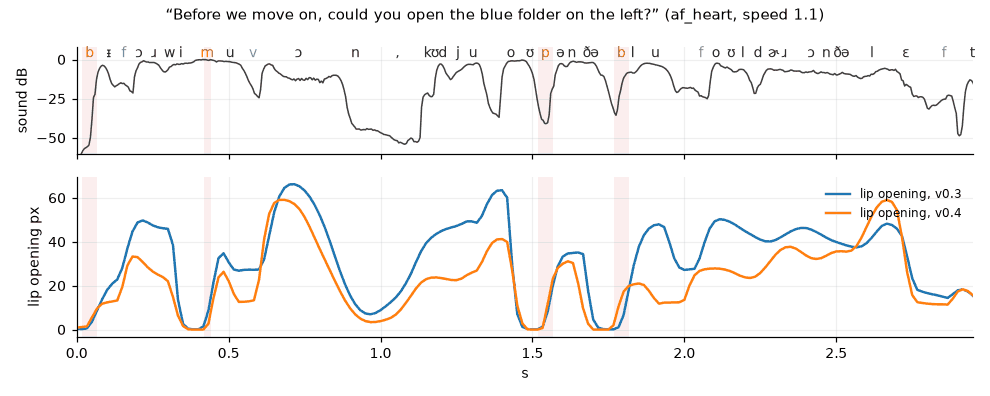
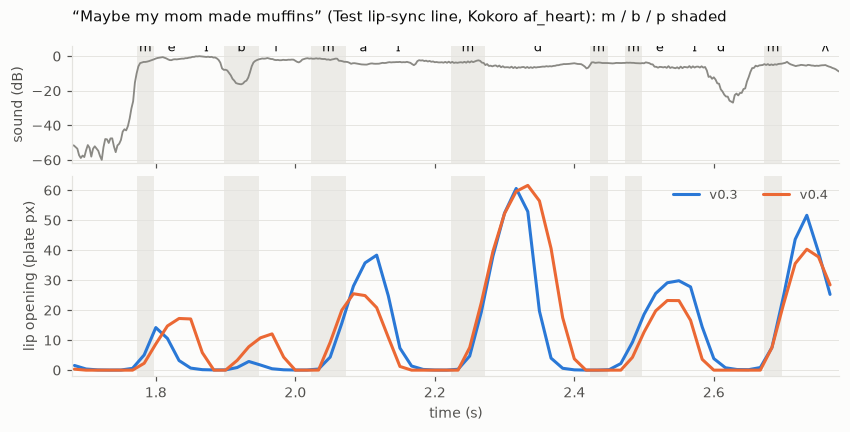
Docs: release timing by context, the jaw behind a seal, round orifices, f / v crowns
README: the lips part where the m / b / p are heard also after a consonant, short
vowels between closures part them, oo / o make a small round opening, the head
never nods twice within about a second. VOICE.md 2.3: the 0.8-5 kHz band, every
release anchored, the phrase-initial burst / hum / hiss, the leads; timing on the
review's 39 clips. RENDERER.md: the landmarks and warp, the nasal-pole rule, the
nod refractory, a new timing table (v0.3 / 689ec7c / now: releases after a vowel and
after a consonant, seals, opening after a pause, vowels that barely open), the
kinematics and the f / v and rounding rendering; the plot is now the Test lip-sync
line, v0.3 vs v0.4. tools/visual/README: the release and short-vowel measures.

Claude-Session: https://claude.ai/code/session_01PYS5SFJYkxWXZ5M9LNxvi9

diff --git a/docs/RENDERER.md b/docs/RENDERER.md
@@ -67,12 +67,15 @@ the lips own m/b/p (press) and f/v (tuck), the jaw owns the vowels, rounding spr
 into the consonants before an O / U (unless a spread vowel is in between), an h or a schwa takes
 its neighbours' shape, and a closure is dominant enough that a 50 ms "m" still closes (press ≥ 0.8,
 jaw ≤ 0.12: the lips do most of the closing, the jaw stays partly open between open vowels as it
-does in speech). A closure passed between two frames is shown, and the director closes the jaw
-fast into it, so it also closes on screen at 30 fps.
+does in speech; the director holds it at `JAW_BEHIND_SEAL` (0.4) while the lips close or are sealed
+for a sound and lets it open for the next vowel as they part). A closure passed between two frames
+is shown, and the director closes the jaw fast into it, so it also closes on screen at 30 fps. A
+vowel between two closures shorter than 140 ms (`SHORT_VOWEL`: "Maybe my", "Bobby") narrows the two
+lip gestures facing it and the second one's early approach, so the lips part for it.
 
 | Source | Mouth |
 |---|---|
-| local voice (Kokoro) | the server's viseme timeline, re-timed on the clip's own sound and given per-vowel amounts from its formants (below), at the playback clock (smoothed, see [Motion](#motion)) + 40 ms visual lead for the lips, 60 ms for the jaw (58 ms for both until the analysis is back), and the clip's own audio (the player's decoded buffer, or its WAV): the loudness envelope opens the jaw, sampled a moment ahead so a syllable's onset opens it as sharply as the sound starts; each vowel's jaw is scaled by its measured loudness and length (stressed syllables wider, reduced ones less); every sound varies a little (jaw ±8 %, spread, rounding), so repeated syllables are never identical; a phrase-final sound rests where the voice really stops (Kokoro holds a final "d" ~200 ms into the pause) |
+| local voice (Kokoro) | the server's viseme timeline, re-timed on the clip's own sound and given per-vowel amounts from its formants (below), at the playback clock (smoothed, see [Motion](#motion)) + 26 ms visual lead for the lips where a closure's edge is an acoustic landmark (up to 58 ms where it is the timeline's own), 60 ms for the jaw (58 ms for both until the analysis is back; a rebuild while the clip plays crossfades over 80 ms), and the clip's own audio (the player's decoded buffer, or its WAV): the loudness envelope opens the jaw, sampled a moment ahead so a syllable's onset opens it as sharply as the sound starts; each vowel's jaw is scaled by its measured loudness and length (stressed syllables wider, reduced ones less); every sound varies a little (jaw ±8 %, spread, rounding), so repeated syllables are never identical; a phrase-final sound rests where the voice really stops (Kokoro holds a final "d" ~200 ms into the pause) |
 | system voice (Web Speech) | the utterance's words → phonemes (`g2p.js`: a ~500-word exception dictionary incl. "Claude", NRL letter-to-sound rules, stress, numbers, acronyms) → a timed plan (stressed vowels long, closures ≥ 50 ms, phrase-final lengthening, rests at punctuation that ends a word; a mark inside a token — `package.json`, `github.com`, `10:30` — is read straight through, with a spoken "dot" between letters). Word-boundary events (`charIndex`) anchor each word; between them the plan runs at a speed learned from the boundaries (per utterance rate); an early boundary compresses the rest of the word, a late one holds the word's last sound (or waits at rest in a pause). Voices without boundary events play the whole plan from `onstart`, and the next utterance uses the tempo the last one turned out to have. A voice that has not reported its start after 0.6 s is assumed to have started; when its real `onstart` (or first boundary) comes later, the mouth re-anchors there instead of leading the voice, and no tempo is learned from the guess. |
 | audio without visemes | RMS → jaw (noise gate), band ratios → spread / round, quiet hiss → teeth |
 
@@ -95,17 +98,21 @@ the controller starts it when the speech queue has synthesised a clip, before it
 
 | Step | What it does |
 |---|---|
-| landmarks | phrase onsets (the first frame within 22 dB of the phrase's peak); closures (m b p) and tucks (f v) between two vowels: the level dip below half its depth, only a true local minimum overlapping the segment (not the next consonant of a cluster) |
-| time warp | a monotonic piecewise-linear warp of the timeline onto them (slopes 0.4-2.5, at most 90 ms), so the segments stay contiguous; anchored closures are marked `exact` and get crisper lip edges |
-| amounts | per vowel: jaw from F1 (normalised to the voice's own range: the 12th-88th percentile of its vowels heard so far, from a prior by pitch), bounded per category (`JAW_RANGE`: U 0.04-0.3 … aa 0.3-0.95); spread from F2 (front vowels); stress from loudness and length (×0.62-1.18; reduced front vowels lose spread and teeth); rounded vowels 82-100 % rounded |
+| landmarks | phrase onsets (the first frame within 22 dB of the phrase's peak; a phrase-initial p at its burst, an m where its hum gives way to the vowel's upper formants); every m / b / p before a vowel ends at its release, whatever precedes it ("and Pam", "it back"): where the 0.8-5 kHz band rises out of the closure (the steepest rise, or the half-way point of a gradual one), and starts, after a vowel, where that band falls into it (`bandClosure`); before a consonant only the start; tucks (f v) between two vowels: the low band's dip. The neighbouring vowels keep part of their length ("probably") |
+| time warp | a monotonic piecewise-linear warp of the timeline onto them (slopes 0.4-2.5, at most 90 ms; the two edges of one closure 0.2-6x), so the segments stay contiguous; an anchored edge is marked `exactStart` / `exactEnd` and gets a crisper lip edge and the lips' fused lead |
+| amounts | per vowel: jaw from F1 (normalised to the voice's own range: the 12th-88th percentile of its vowels heard so far, from a prior by pitch), bounded per category (`JAW_RANGE`: U 0.04-0.3 … aa 0.3-0.95; an open vowel whose F1 reads as low as a close one's is a nasal pole, the ae of "Pam" before its m, and keeps its own opening); spread from F2 (front vowels); stress from loudness and length (×0.62-1.18; reduced front vowels lose spread and teeth); rounded vowels 82-100 % rounded |
 
 Result on 36 real clips (af_heart, am_michael, bf_emma × six sentences × speeds 0.9 / 1.1), the
 relief head's aperture at the centre of each vowel: r(aperture, F1) 0.34 → 0.66; open vs close
 vowels 1.39x → 1.72x; stressed vs unstressed 1.45x → 1.61x. Before, the rounded vowels opened the
 most (ɔ / o 58-61 px, ahead of the open vowels' 50 px); now ɑ 52, æ 45, ɔ / o 40, ɪ / i 24-26,
-ʊ / u 21-24 px.
+ʊ / u 21-24 px. On the 39 clips of the v0.4 review (each vowel's peak, the review's own LPC F1):
+r(aperture, F1) 0.45 → 0.60 (689ec7c 0.62), open vs close vowels 1.67x → 1.87x (2.01x), stressed vs
+unstressed 1.43x → 1.54x (1.58x); a rounded vowel's orifice is now narrower than the corners, so a
+stressed oo / o reads round (width / height 4.5 / 2.9 on the rig, 689ec7c 7.0 / 4.2) instead of a
+flat slit.
 
-![The relief head's lip opening over "Before we move on, could you open the blue folder on the left?" (Kokoro af_heart, speed 1.1), v0.3 vs v0.4, under the clip's loudness and phonemes: the close vowels (w-i, could you, blue) no longer open like the open ones, and the closures (shaded) are approached instead of snapped](screenshots/lipsync_opening.png)
+![The relief head's lip opening over "Maybe my mom made muffins" (the Test lip-sync line, Kokoro af_heart), v0.3 vs v0.4, under the clip's loudness and phonemes (m / b / p shaded): the /i/ of "Maybe" between its b and the m of "my" parts the lips (v0.3: 3 px), each m seals where its murmur is and parts where the vowel comes in, and "mom" stays open until its final m](screenshots/lipsync_opening.png)
 
 ![The same clip on the relief head, v0.3 (top) vs v0.4 (bottom): m, oo, o, oo, f, e](screenshots/lipsync_shapes.jpg)
 
@@ -123,7 +130,7 @@ text's for these clips:
 |---|---|---|
 | `inhale` | the silence before the first phrase and pauses ≥ 0.22 s, sized to the time left | nostrils flare, free lips part a little, the head and chest lift; breathing while speaking follows the pauses |
 | `phrase-start` | each run of speech between rests ≥ 100 ms | a small lift; some phrases start with a glance away |
-| `accent` | vowels whose pitch peak (re the speaker's usual pitch), rise, loudness and length beat the vowels within 0.3 s | a phrase's strongest (nuclear) accent nods; weaker ones nod with a probability that grows with their strength, otherwise give a small turn / tilt beat, a brow flick, or nothing; nod sizes vary log-normally (±30 %), so the head never bobs once per stressed word |
+| `accent` | vowels whose pitch peak (re the speaker's usual pitch), rise, loudness and length beat the vowels within 0.3 s | a strong (nuclear) accent nods, a weaker one with a probability that grows with its strength (0.15 + 0.35 x), but no accent nods within 0.6-1.2 s (`NOD_REFRACTORY`, drawn) of the last nod; otherwise a turn / tilt beat, a brow flick, or nothing; nod sizes vary log-normally (±30 %), so the head never bobs once per stressed word (0.66 nods/s on 39 clips; v0.3 1.41) |
 | `emphasis` | an accent ≥ 5 semitones above the usual pitch, rising ≥ 3 | brows lift, a firmer nod |
 | `phrase-end` | where the voice stops, with its final fall / rise (semitones), the pause after it and the text's punctuation | a fall settles the head (final lowering); a question or a rising end lifts the brows and tilts the head; eye contact again; a blink when the pause is real |
 
@@ -154,38 +161,48 @@ still while speaking. The face coupling is anatomy, so it keeps 40 % at 0.
 ![Mouth film strip of "Maybe we should move the meeting to Friday?" (Kokoro af_heart): before (top) and after (bottom)](screenshots/speech_real_voice.jpg)
 
 Timing, measured end to end with `tools/visual/lipsync-align.mjs` (the rendered mouth of LipSync
-+ director + the relief head's rig at 60 Hz vs the audio; negative = the mouth leads), medians:
++ director + the relief head's rig at 60 Hz vs the audio; negative = the mouth leads). A release
+is where the 0.8-5 kHz band rises out of the closure (the tool's own zero-phase band-pass, so it
+does not share the app's analysis); "689ec7c" is v0.4 before its review.
 
-| | v0.2 | v0.3 | v0.4 |
+| | v0.3 | 689ec7c | v0.4 |
 |---|---|---|---|
-| lips sealed (aperture < 1 px) vs the acoustic closure, start: median [IQR], 36 clips | | -32 [-37, -25] ms | -30 [-32, -25] ms |
-| ... end | | -15 [-22, +2] ms | -20 [-22, -15] ms |
-| ... start / end, the 12 clips of v0.3 | | -35 / -20 ms | -35 / -20 ms |
-| fullest m / b / p closure vs the level dip, 12 clips | +12 ms | -33 ms | -38 ms |
-| jaw opening after a pause vs the acoustic onset, 36 clips | | -53 ms | -49 ms |
-| m / b / p sealed (all of them, at Kokoro's phoneme times, 36 clips) | | 78 / 78 | 78 / 78 |
+| lips part vs the release, after a vowel: median [IQR], share > 20 ms late, 39 review clips | -7.5 [-18, +2] ms, 6 % | -8.3 [-18, +9] ms, 17 % | -15.0 [-19, -8] ms, 4 % |
+| ... after a consonant ("and Pam", "it back"), 39 review clips | -0.8 [-13, +12] ms, 18 % | +20.0 [-6, +30] ms, 51 % | -14.2 [-19, -10] ms, 4 % |
+| ... after a consonant, the 36 clips / the 12 clips of v0.3 | -12 / +11 ms (0 / 43 %) | +8 / +23 ms (23 / 57 %) | -16 / -10 ms (0 / 17 %) |
+| lips sealed (aperture < 1 px) vs the level dip, start / end, 36 clips | -32 / -15 ms | -30 / -20 ms | -32 / -18 ms |
+| jaw opening after a pause vs the acoustic onset, 36 clips / the review's 15 at speed 0.9 | -53 / -46 ms | -43 / -63 ms | -38 / -63 ms |
+| vowels of 60 ms or more that open the lips less than 5 px, 39 review clips | 2 / 621 | 3 / 621 | 0 / 621 |
+| m / b / p sealed, 39 review clips (rig, the review's own landmarks) | 248 / 249 | 247 / 249 | 248 / 249 |
 
-(36 clips: af_heart, am_michael, bf_emma, six sentences each, speeds 0.9 and 1.1; the closures the
-tool scores are the m / b / p between vowels with a clear level dip.) The display adds one to two
-frames of its own, so on screen the seal lands within ~15 ms of the sound. The timing barely changed on average (it was right on average in v0.3); its spread did: the
-fused timeline puts each closure on its own sound instead of on a 25 ms timeline frame.
+(39 review clips: af_heart, am_michael, bf_emma; five sentences at speeds 0.9 and 1.1 and three at
+1.0, among them the Test lip-sync line. 36 clips: the same voices, six other sentences at 0.9 and
+1.1. The releases still listed late are mostly a stop before an m, "made muffins": there the
+band's steepest rise is the stop's burst into the m's murmur, not the lips.) The display adds one
+to two frames of its own, so on screen the lips part within ~0-20 ms of the sound.
 *Settings → Voice → Lip-sync timing* (`voice.lipSyncOffsetMs`, ±200 ms) shifts it for audio
 devices with an unreported delay (Bluetooth); **Test lip-sync** says a line of m / b / p to judge it
 by ([VOICE.md](VOICE.md#23-lip-sync-in-the-renderer)).
 
-Kinematics (36 clips, director springs `MOUTH_OMEGA`, `LIP_CONTACT`): the lips approach a closure
-over ~60 ms (the press spring rises at 48 rad/s, starting `LIP_CLOSE_EARLY` = 28 ms sooner than it
-falls) and meet at speed (contact at 80 % of the spring's way), then part abruptly (100 rad/s): the
-largest one-frame change of the relief head's aperture went from 45 px (a wide-open vowel snapping
-shut) to 31 px, its p99 from 18 to 17 px; the aperture's p95 closing / opening speed ratio is
-0.86-0.96 (0.72 before: the mouth opened fast and drifted shut).
+Kinematics (director springs `MOUTH_OMEGA`, `lipContact`): the lips approach a closure over
+40-60 ms (the press spring rises at 48 rad/s from an open jaw, 64 from a nearly closed one, and
+starts `LIP_CLOSE_EARLY` = 16 ms sooner than it falls) and meet at speed (contact at 55-80 % of
+the spring's way, by how far apart they are) while closing for a sound; as soon as the target
+falls (a release, or a short vowel between two closures) they show the spring as it is, so they
+part as they move (70 rad/s). The jaw waits behind them (`JAW_BEHIND_SEAL`) and opens at 45 rad/s.
+On the 39 review clips: the largest one-frame opening of the relief head's aperture 22.5 (v0.3) /
+31.7 (689ec7c) → 20.3 px, the largest closing 47.8 / 32.1 → 30.3 px; the first frame after a seal
+shows 7 % / 17 % → 12 % of the next peak; the per-movement peak speed closing / opening is
+0.87 / 0.73 → 1.04 (the mouth neither pops open nor drifts shut).
 
 ![The fourteen visemes on the relief and the procedural head](screenshots/mouth_visemes.jpg)
 
 ![Film strip of the system-voice lip-sync saying "Hello! I'm Claude. How are you feeling today?"](screenshots/mouth_speech.jpg)
 
 Rendering: the relief head opens the lips as a lens that spans the corners where they are now
-(narrow and round for O / U, wide for E): the commissures take only 40 % of the jaw drop and the
+(wide for E; for O / U narrower still than the corners, `roundLensHw`: protruded lips meet beside
+a small round orifice, an "oo" about half an "ah"'s width, 0.56 vs 0.92 of the mouth half width
+on the review clips, an "o" 0.59): the commissures take only 40 % of the jaw drop and the
 lower lip's share tapers toward them, so the corners stay closed and the opening's edges are smooth
 curves that close into the seam without a kink over the last quarter of the way (no sharp dark tips
 beside an O); the parted lips' inner edges roll into the mouth (a soft shadow, a thin moist highlight) and
@@ -202,7 +219,9 @@ texture is compressed toward the seam and the rest gap skipped; the shapes' part
 square of the press, so a press that is only half released still holds the lips together), brings a tucked lower lip up under
 the incisors for f / v: the upper lip keeps half of the neighbouring vowel's lift and the opening
 narrows by 20 %, so a narrow band of incisor crowns shows over the lower lip (the cavity shader
-fills it from the mouth texture's incisor rows, found at load, `incisorBand`), not a dark slot;
+draws them from the mouth texture's incisor rows, found at load, `incisorBand`, at their own
+height, `TUCK_CROWN_PX` under the upper lip, and lets them give way to the open mouth's teeth as
+the jaw opens for the next vowel, so they never stretch into tall bars), not a dark slot;
 it raises the upper lip for teeth (the incisors follow),
 draws a dim tongue tip at the teeth, pulls the corners in for round and out for spread, and tilts
 them slightly with `mouthAsym`. The procedural head does the same in its vertex rig and cavity

diff --git a/docs/VOICE.md b/docs/VOICE.md
@@ -261,24 +261,32 @@ closures (`PP`) and tucks (`FF`) stay crisp even when they are only 50 ms long, 
 **The sound decides the timing and the amounts.** The timeline says *which* shape (closed,
 tucked, spread, rounded, open); the clip's own audio says *when* and *how much*. When a clip
 arrives (the speech queue's `ready`, before it plays), a Web Worker (`src/audio/acoustics-worker.js`)
-analyses its WAV every 5 ms (`src/audio/acoustics.js`): loudness, a low band (< 400 Hz: the murmur
+analyses its WAV every 5 ms (`src/audio/acoustics.js`): loudness, a 0.8-5 kHz band (the vowels' upper formants: they go in any closure), a low band (< 400 Hz: the murmur
 of m n), a high band (> 3 kHz: frication), voicing, and the first three formants by LPC (order
 14, autocorrelation + Levinson-Durbin, the roots warm-started from the previous frame). The first
 0.8 s come back at once, the rest ~30 ms later for a 5 s clip; the main thread does nothing heavy.
 `src/audio/fusion.js` then:
 
-* warps the timeline monotonically onto the sound's landmarks: each phrase starts where its sound
-  starts, and an m / b / p or f / v between two vowels sits on its acoustic closure (the level dip
-  below half its depth; a dip that is not a local minimum inside the segment, e.g. the next
-  consonant of a cluster, is not used); boundaries move at most 90 ms;
+* warps the timeline monotonically onto the sound's landmarks. Each phrase starts where its sound
+  starts (a phrase-initial p at its burst, an m where its hum gives way to the vowel). Every
+  m / b / p before a vowel ends where the lips part, whatever comes before it ("and Pam", "it back"):
+  the steepest rise of the 0.8-5 kHz band out of the closure (the burst of a b / p, the end of an
+  m's murmur); between two vowels its start sits on the steepest fall into it, and before a
+  consonant only its start. An f / v between vowels sits on the low band's dip. A boundary moves at
+  most 90 ms; the two edges of one closure may stretch it (Kokoro gives an m 25 ms whose closure
+  lasts 70);
 * gives every vowel its own amounts: the jaw from its F1 (open vowels 2-3x a close one), normalised
   per voice (the formant range of the vowels heard so far in that voice, starting from a prior by
-  pitch), bounded by the viseme's category (`JAW_RANGE`: a U never opens like an aa); spread from
-  F2 for front vowels; stress from loudness and length (a stressed vowel opens ~1.6x a reduced
-  one; a reduced front vowel is neither spread nor toothy); stressed oo / o fully rounded;
-* samples the lips 40 ms ahead and the heavier jaw 60 ms ahead (`FUSED_LEAD`); the lips start
-  closing 28 ms sooner than they part (`LIP_CLOSE_EARLY`), so a closure is a ~60 ms approach that
-  meets at speed and a release that bursts.
+  pitch), bounded by the viseme's category (`JAW_RANGE`: a U never opens like an aa; an open vowel
+  whose "F1" reads as low as a close one's is a nasal pole, the ae of "Pam", and keeps its own
+  opening); spread from F2 for front vowels; stress from loudness and length (a stressed vowel opens
+  ~1.5x a reduced one; a reduced front vowel is neither spread nor toothy); stressed oo / o fully
+  rounded;
+* samples the lips 26 ms ahead and the heavier jaw 60 ms ahead (`FUSED_LEAD`). A closure edge that
+  is not a landmark keeps the timeline's timing, moved earlier by what Kokoro's lateness the warp
+  has not already taken out (up to the plain 58 ms lead). The lips start closing 16 ms sooner than
+  they part (`LIP_CLOSE_EARLY`; less before a short vowel between two closures, so "Maybe my"
+  parts the lips for its /i/), meet at speed, and the jaw waits behind them until they part.
 
 The loudness envelope still opens the jaw a moment ahead of each syllable, and the pitch drives
 nods, brows, phrase-final lowering and breaths (`src/audio/prosody.js`). A clip that starts before
@@ -286,13 +294,15 @@ its analysis is back plays its first moments from the timeline alone; the system
 and keeps the timeline-only path.
 
 **Timing.** Measured end to end with `tools/visual/lipsync-align.mjs` (LipSync + director +
-the relief head's rig at 60 Hz in Node) on real Kokoro clips (af_heart, am_michael, bf_emma; six
-sentences each at speeds 0.9 and 1.1, and the 12 clips of v0.3): the lips seal 22-35 ms before the
-acoustic closure starts and part 15-20 ms before it ends (all of them seal), the same at 144 Hz and
-with Windows' 10 ms audio clock. The display shows a frame one to two refreshes after it is
-rendered, so on screen the seal lands within ~15 ms of the sound. A mouth slightly early is also
-what people tolerate best (ITU-R BT.1359: sound ahead of the picture is noticed from ~45 ms, sound
-behind it only from ~125 ms).
+the relief head's rig at 60 Hz in Node) on 39 real Kokoro clips of the v0.4 review (af_heart,
+am_michael, bf_emma; five sentences at speeds 0.9 and 1.1 and three at 1.0, the Test lip-sync line
+among them) against the tool's own 0.8-5 kHz landmarks: the lips part 14-15 ms before the release
+(median; IQR [-19, -8] ms), after a vowel and after a consonant alike, and 4 % of the releases are
+more than 20 ms late (v0.3: 6 % after a vowel, 18 % after a consonant; before this review's
+fixes 17 % and 51 %); all of them seal. The display shows a frame one to two refreshes after it is
+rendered, so on screen the release lands within ~0-20 ms of the sound. A mouth slightly early is
+also what people tolerate best (ITU-R BT.1359: sound ahead of the picture is noticed from ~45 ms,
+sound behind it only from ~125 ms).
 
 **Lip-sync timing (offset).** *Settings → Voice → Lip-sync timing* (`voice.lipSyncOffsetMs`,
 -200..+200 ms, default 0) moves the mouth later (+) or earlier (-) for devices whose delay the

diff --git a/README.md b/README.md
@@ -126,7 +126,7 @@ Both share a GPU particle aura (cyan and amber motes, cyan wisps) and bloom, and
 
 **Lip-sync.** The mouth follows the actual words, with either voice. With the local voice it plays the viseme timeline that comes with the audio; with a Windows (system) voice it works the sounds out from the text and keeps them in step with the voice's word timing. The lips close on *m*, *b* and *p*, the lower lip tucks under the teeth on *f* and *v*, the lips round ahead of *o* and *oo*, the tongue shows on *th* and *l*, and the mouth rests at commas and full stops. While talking, the head nods slightly on stressed words, the brows lift on questions, blinks fall between phrases, and a friendly sentence ends with a small smile.
 
-With the local voice the mouth also listens to the sound itself (analysed in the background as each sentence arrives): every vowel gets its own shape from what you hear, so "ah" opens wide, "ee" spreads, "oo" rounds small and an unstressed "uh" barely opens, instead of every vowel opening about the same; the lips close where the *m*, *b* and *p* are heard, approach the closure over a few frames and part with a little burst; on *f* and *v* the upper teeth rest on the lower lip. While talking, the head's movements vary like a person's: the main stressed word of a phrase nods, others get a smaller nod, a slight turn or tilt, a brow flick, or nothing.
+With the local voice the mouth also listens to the sound itself (analysed in the background as each sentence arrives): every vowel gets its own shape from what you hear, so "ah" opens wide, "ee" spreads, "oo" rounds small and an unstressed "uh" barely opens, instead of every vowel opening about the same; the lips close and part where the *m*, *b* and *p* are heard (also after another consonant, as in "and Pam"), approach the closure over a few frames, and open again over a few frames as the jaw follows them; a short vowel between two closures ("Maybe my") still parts the lips; "oo" and "o" make a small round opening; on *f* and *v* the upper teeth rest on the lower lip. While talking, the head's movements vary like a person's and do not follow a beat: the main stressed word of a phrase nods, others get a slight turn or tilt, a brow flick, or nothing, and the head never nods twice within about a second.
 
 The face follows the sound in other ways too: the jaw opens with each syllable's loudness (stressed syllables wider), the head and brows follow the pitch of the voice, a falling sentence end settles the head, the avatar takes a breath (nostrils, a slight lift) before speaking on, glances away at the start of some phrases and looks back at you by their end. The jaw swings like a hinge, and the cheeks, the chin and the upper lip move with the mouth. *Settings → Avatar → Expressiveness* sets how much the head, brows and face move while speaking (0 % keeps the head still, 100 % is the default, 200 % is very animated). If the mouth runs ahead of or behind the voice (Bluetooth headphones add a delay the app cannot see), set *Settings → Voice → Lip-sync timing* (+ moves the mouth later; for Bluetooth try +100 to +200 ms) and press **Test lip-sync** to check it on a line full of *b*, *p* and *m*. [docs/RENDERER.md](docs/RENDERER.md#lip-sync) has the details and [before / after mouth shapes](docs/screenshots/lipsync_shapes.jpg); see also the [visemes](docs/screenshots/mouth_visemes.jpg), a [speech film strip](docs/screenshots/mouth_speech.jpg) and [the face moving with the mouth](docs/screenshots/face_with_mouth.jpg).
 

diff --git a/tools/visual/README.md b/tools/visual/README.md
@@ -86,7 +86,7 @@ harness played them (ffmpeg).
 ## lipsync-align.mjs — lip-sync timing on real speech
 
 ```bash
-node tools/visual/lipsync-align.mjs out/clips [--latency 0.02] [--offset ms] [--json out.json]
+node tools/visual/lipsync-align.mjs out/clips [--latency 0.02] [--offset ms] [--json out.json] [--late]
 ```
 
 Plays every clip of a folder (`name.wav` + `name.json`) through the real LipSync (with its
@@ -99,3 +99,12 @@ the best jaw / level correlation (negative = the mouth leads). `--offset` applie
 Voice → Lip-sync timing* (`voice.lipSyncOffsetMs`). Use it after changing the timeline, the
 leads, the fusion or the smoothing; the seal is the number to watch (the lips meet and part in a
 frame or two, so their "fullest" closure is a plateau and its time says little).
+
+It also scores **every** release of an m / b / p into a vowel (or r, w, y), not only the closures
+between vowels with a level dip: when the lips part vs the steepest rise of the 0.8-5 kHz band out
+of the closure (its own zero-phase band-pass and 10 ms Hann power, independent of the app's
+analysis), split by what precedes it — a vowel, a consonant ("and Pam", "it back") or a pause —
+with the share more than 20 ms late (`--late` lists them); and every vowel of 60 ms or more on
+the timeline (40 ms early to 10 ms late) is checked to open the rendered lips at least 5 px. A
+stop before an m ("made muffins") can read late: there the band's steepest rise is the stop's
+burst into the m's murmur.
